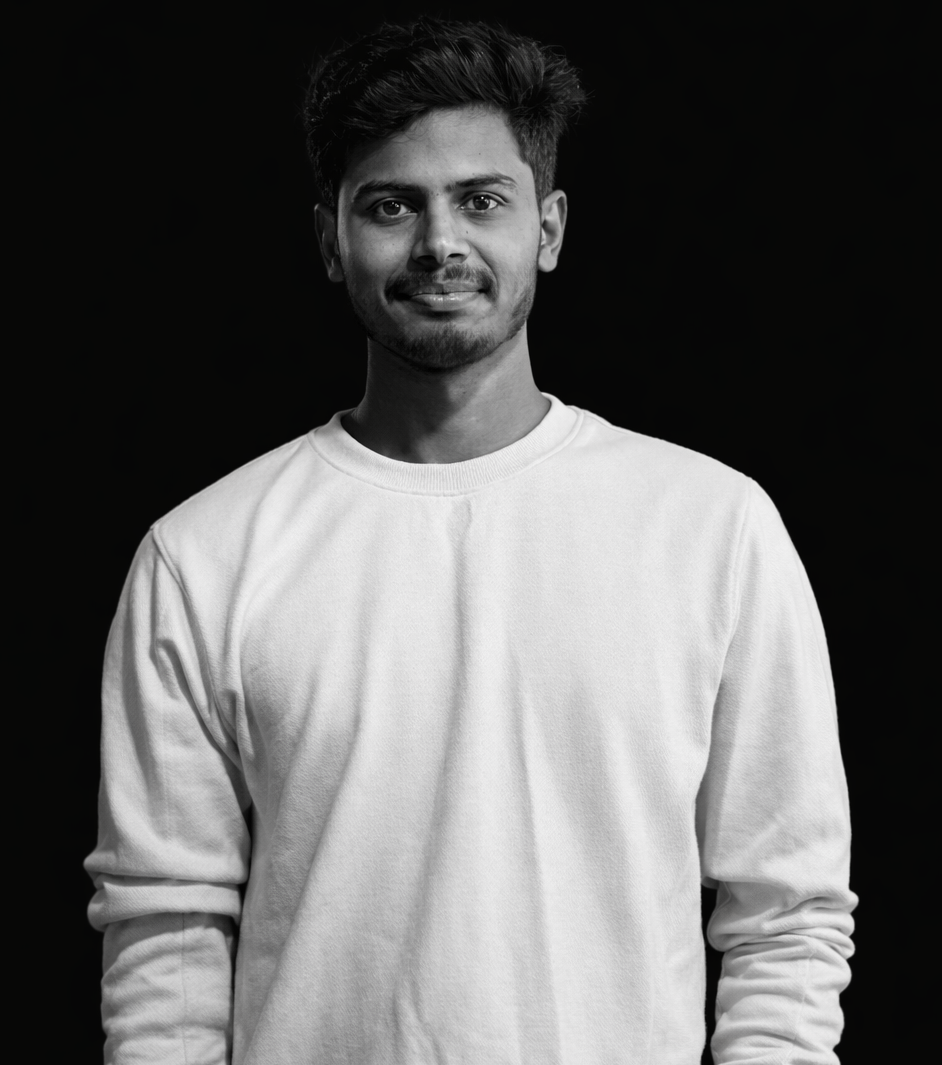
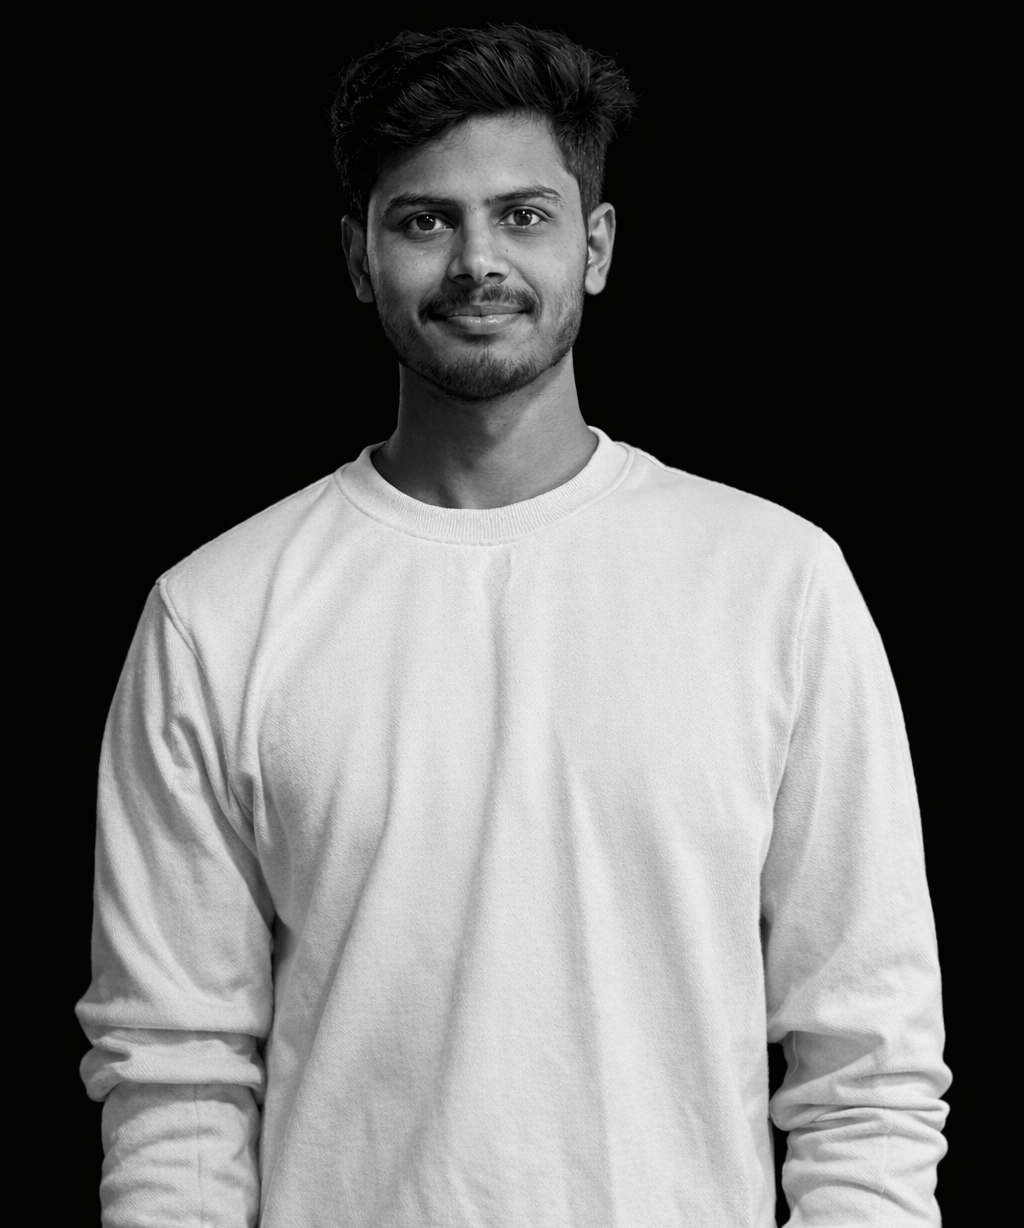
changed about image and splash name

diff --git a/src/components/home/SplashScreen.tsx b/src/components/home/SplashScreen.tsx
@@ -80,7 +80,7 @@ export default function SplashScreen({ onComplete }: { onComplete: () => void })
                   animate={{ opacity: 1, y: 0, letterSpacing: '0.45em' }}
                   exit={{ opacity: 0 }}
                   transition={{ duration: 0.5, ease: 'easeOut' }}
-                  className="text-white text-2xl font-black tracking-[0.45em]"
+                  className="text-white text-xl font-bold tracking-[0.45em]"
                 >
                   SCALERS
                 </motion.div>
@@ -95,7 +95,7 @@ export default function SplashScreen({ onComplete }: { onComplete: () => void })
                   animate={{ opacity: 0.5 }}
                   exit={{ opacity: 0 }}
                   transition={{ duration: 0.5, delay: 0.15 }}
-                  className="text-white text-[15px] tracking-[0.1em] uppercase font-medium"
+                  className="text-white text-[13px] tracking-[0.1em] uppercase font-light"
                 >
                   Business Agency
                 </motion.p>

diff --git a/src/pages/AboutPage.tsx b/src/pages/AboutPage.tsx
@@ -2,6 +2,7 @@ import React from 'react';
 import { motion } from 'framer-motion';
 import { Page } from '../lib/types';
 import { ArrowRight } from 'lucide-react';
+import { a } from 'framer-motion/client';
 
 interface AboutProps {
   onNavigate: (page: Page) => void;
@@ -18,7 +19,8 @@ const team = [
     {
         name: 'Ramya Jaddu',
         role: 'Founder & CEO',
-        image: 'https://images.unsplash.com/photo-1494790108377-be9c29b29330?w=400&q=80',
+        image: './about/ramya.png',
+        
     },
     {
         name: 'Arthi Singh',
